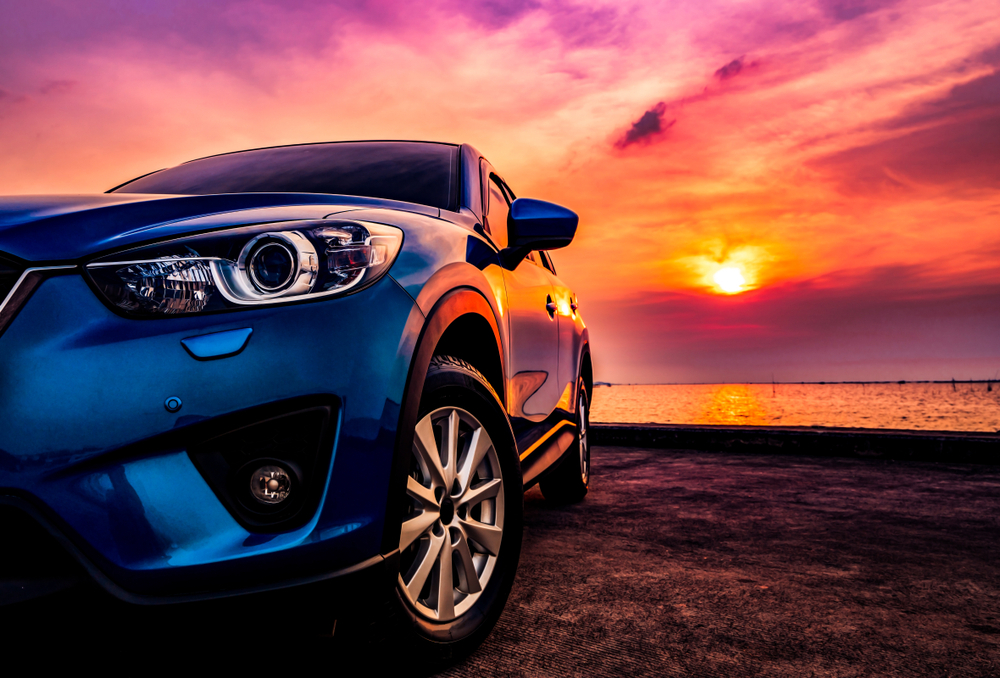
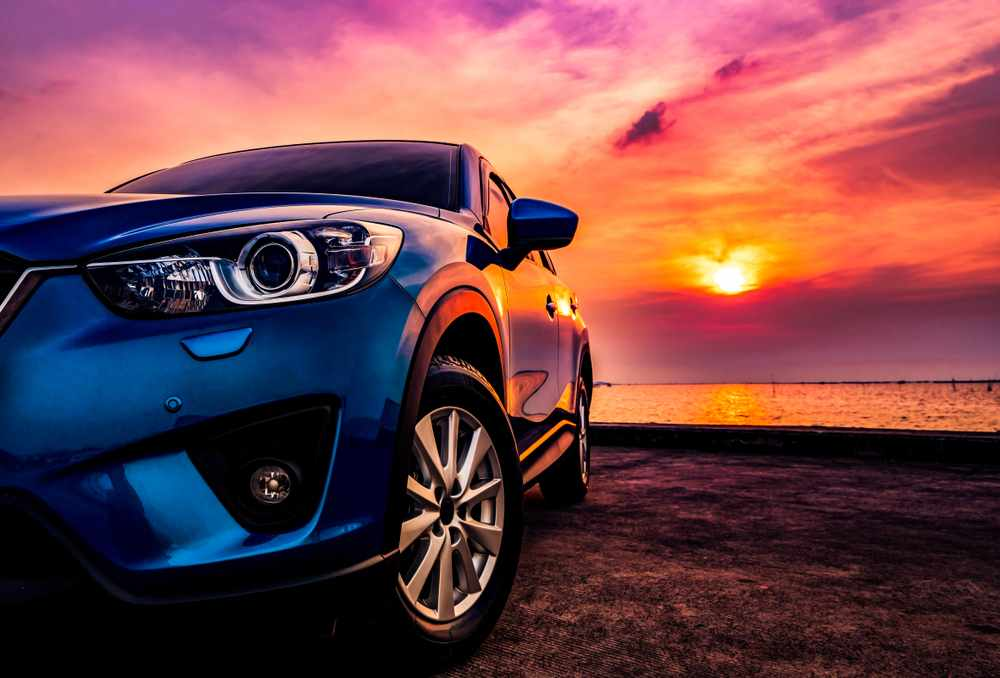
Optimize homepage images

diff --git a/resources/views/admin/auth/login.blade.php b/resources/views/admin/auth/login.blade.php
@@ -19,7 +19,7 @@
         <div class="col-lg-5 col-12">
             <div id="auth-left">
                 <div class="auth-logo">
-                    <img src="{{asset('images/logoWText.png')}}" alt="Logo">
+                    <img src="{{asset('images/logoWText-min.png')}}" alt="Logo">
                 </div>
                 <h1 class="auth-title">{{ __('Login') }}</h1>
                 <p class="auth-subtitle mb-5">Log in to Dourado Cars Admin Portal</p>
@@ -31,9 +31,6 @@
                         <input id="email" type="email" placeholder="{{ __('E-Mail Address') }}"
                                class="form-control form-control-xl" name="email" value="{{ old('email') }}" required
                                autocomplete="email" autofocus>
-                        <div class="form-control-icon">
-                            <i class="bi bi-person"></i>
-                        </div>
                     </div>
                     @error('email')
                     <div class="invalid-feedback" style="display: block">
@@ -46,9 +43,6 @@
                         <input id="password" type="password" placeholder="{{ __('Password') }}"
                                class="form-control form-control-xl" name="password" required
                                autocomplete="current-password">
-                        <div class="form-control-icon">
-                            <i class="bi bi-shield-lock"></i>
-                        </div>
                     </div>
 
                     @error('password')

diff --git a/resources/views/front/layouts/head.blade.php b/resources/views/front/layouts/head.blade.php
@@ -7,7 +7,7 @@
     <meta name="viewport" content="width=device-width, initial-scale=1, shrink-to-fit=no">
     <meta name="description" content="">
     <meta name="author" content="">
-    <link rel="icon" href="{{asset('images/logo.png')}}">
+    <link rel="icon" href="{{asset('images/fav-icon.png?v=1.0')}}">
     <link href="https://fonts.googleapis.com/css?family=Poppins:100,200,300,400,500,600,700,800,900&display=swap"
           rel="stylesheet">
 
